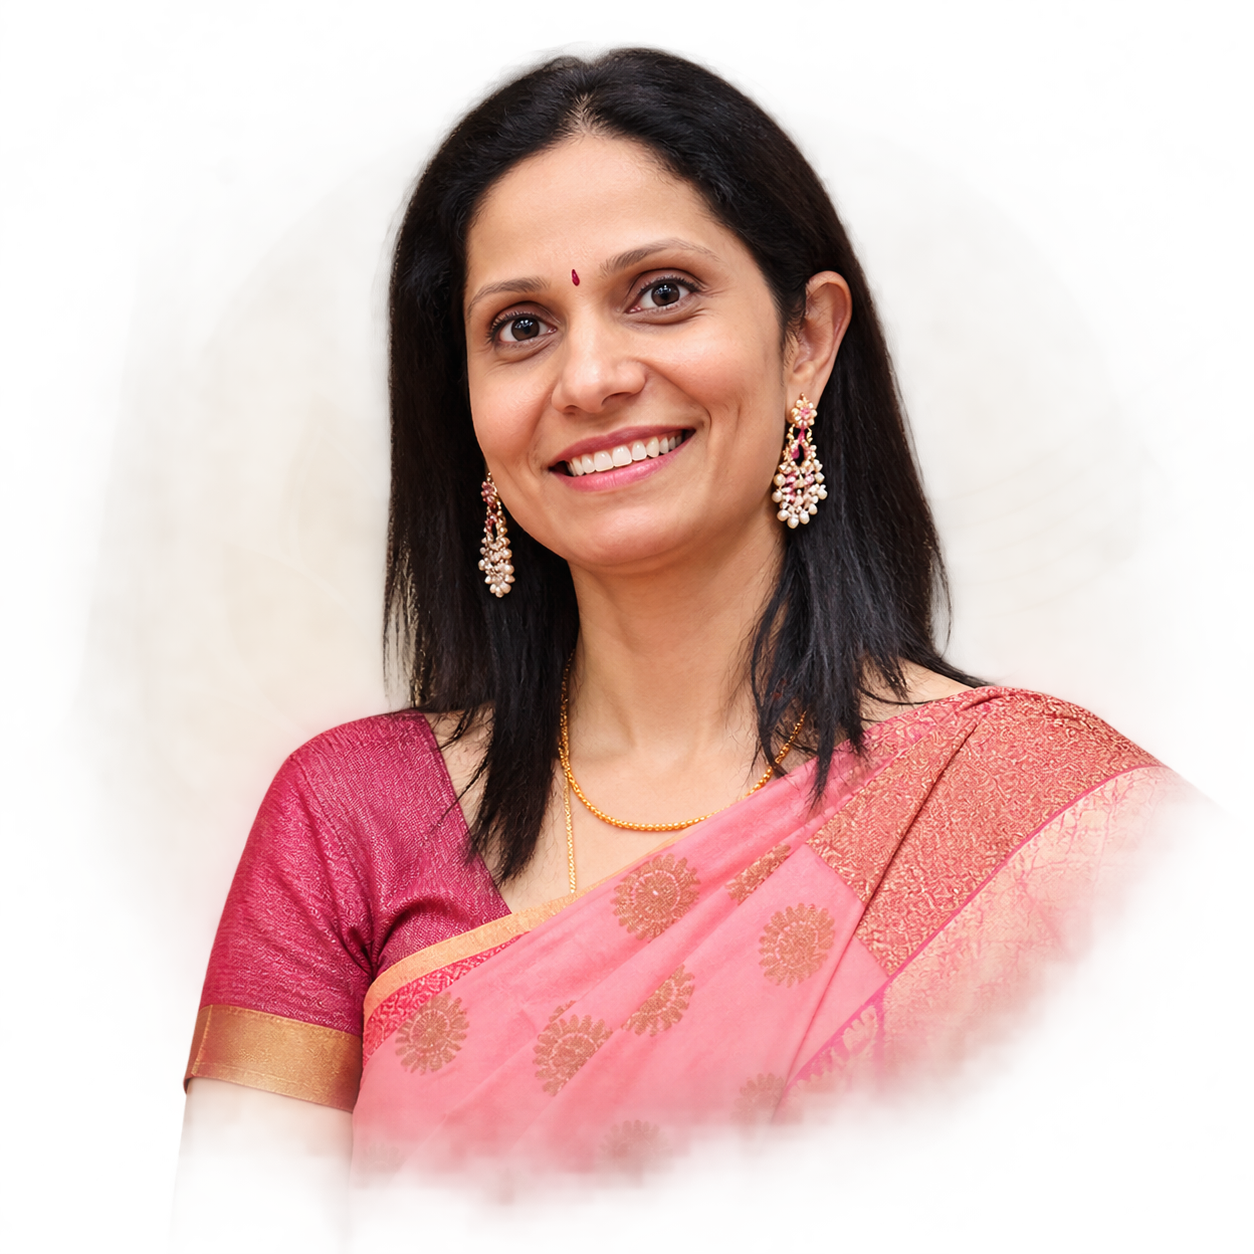
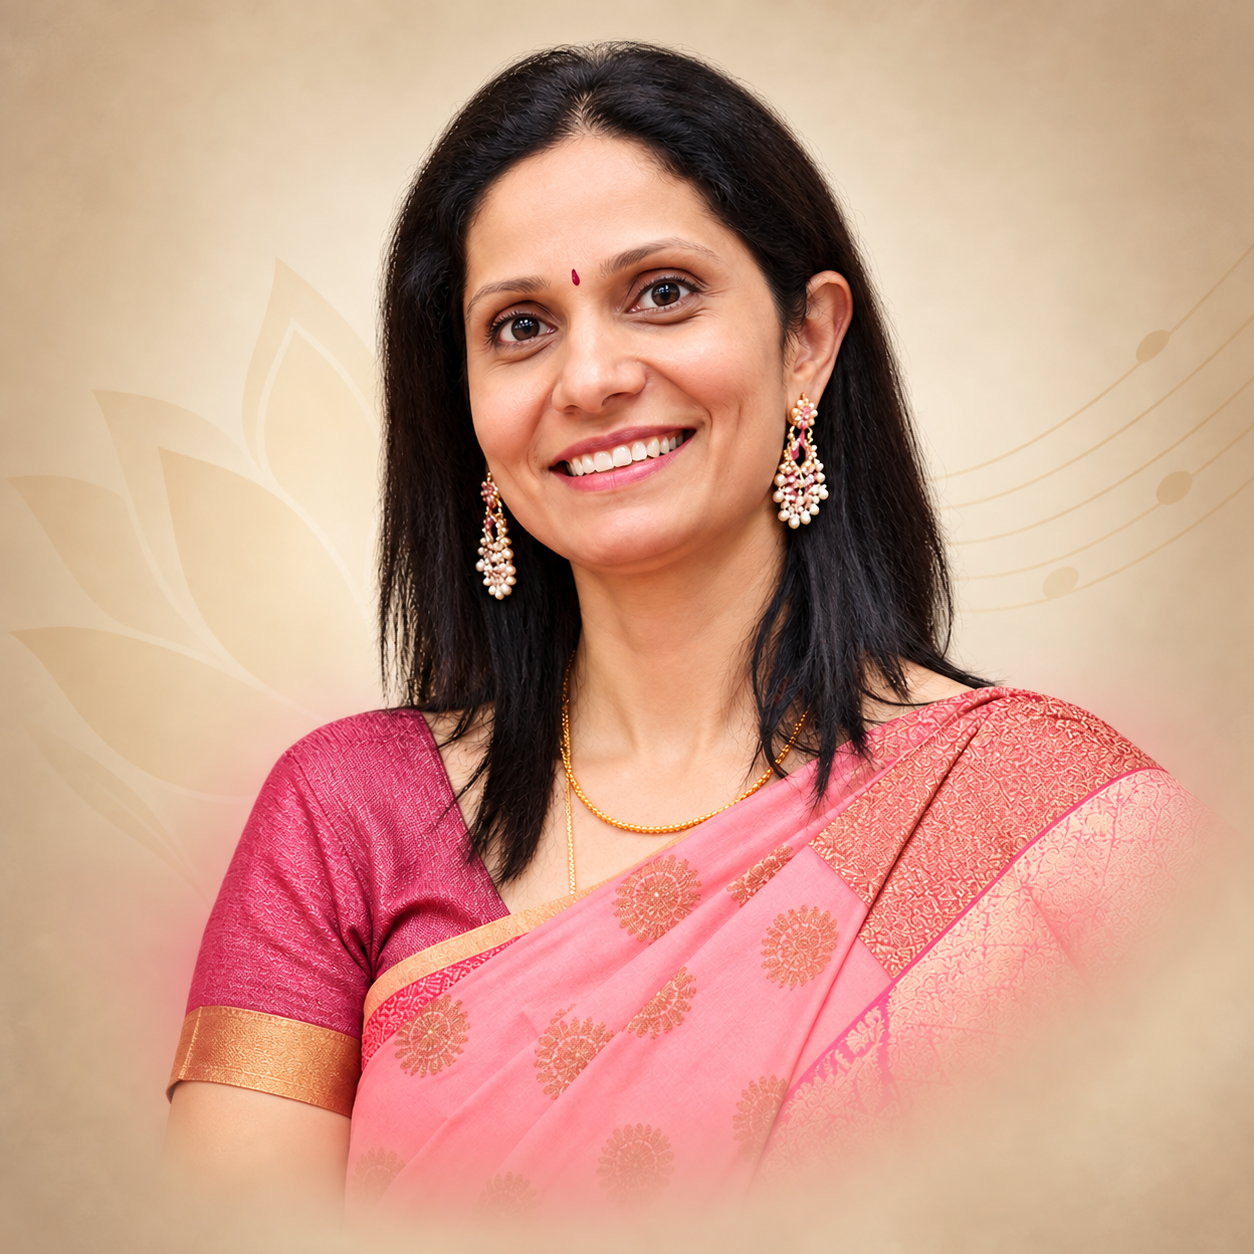
chore: add teachers photograph

diff --git a/src/App.tsx b/src/App.tsx
@@ -23,6 +23,9 @@ import srutiLogo from "./assets/sruti-logo.png";
 import heroImage from "./assets/hero-community.png";
 import hanumanEventImage from "./assets/hanuman-event.png";
 import praveenaPhoto from "./assets/praveena-photo.png";
+import kailashPhoto from "./assets/kailash.png";
+import aishawaryaPhoto from "./assets/aishwarya-photo.png";
+import umaPhoto from "./assets/uma.png";
 
 const registrationUrl = "https://forms.gle/jQNqhpzxRc2yqnE79";
 const hanumanRegistrationUrl = "https://forms.gle/c7pAa1Pei337EoUn7";
@@ -64,7 +67,7 @@ const teachers = [
     languages: "To be added",
   },
   {
-    photo: "",
+    photo: umaPhoto,
     name: "Dr Uma Geethanath",
     role: "Vedam Teacher",
     teaches: "To be added",
@@ -72,7 +75,7 @@ const teachers = [
     languages: "To be added",
   },
   {
-    photo: "",
+    photo: aishawaryaPhoto,
     name: "Dr Aishwarya Amarnath",
     role: "Vedam Teacher",
     teaches: "To be added",
@@ -96,7 +99,7 @@ const teachers = [
     languages: "To be added",
   },
   {
-    photo: "",
+    photo: kailashPhoto,
     name: "Mr Srikailash Venkitadri",
     role: "Vedanta Teacher",
     teaches: "Vedanta",
@@ -500,8 +503,8 @@ function About() {
             <h2>Stewarding Śruti CIC</h2>
             <div className="director-list">
               <div><span>01</span><strong>Mrs Vidya Praveena Srikailash</strong></div>
-              <div><span>02</span><strong>Mr Vibhas Chengalavala</strong></div>
-              <div><span>03</span><strong>Mr Giridhar Narimetla</strong></div>
+              <div><span>02</span><strong>Mr Giridhar Narimetla</strong></div>
+              <div><span>03</span><strong>Mr Vibhas Chengalavala</strong></div>
             </div>
           </article>
         </div>
